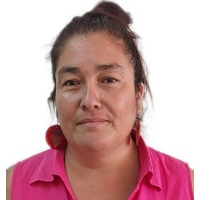
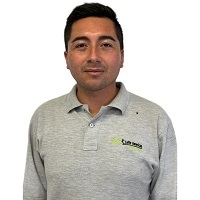
Cambios

diff --git a/noticias.html b/noticias.html
@@ -101,15 +101,19 @@
                 
             <div class="contenedor-servicios">  <!--Div se ocupa de contener elementos, para ser modificados en css-->
                 <div class="servicio celeste">
-                    <h4 ">DANIELA ANDREA TOBAR ROSAS.</h4>
+                    <h4 ">NELSO RODAS GRANADO.</h4>
+                    <br>
+                    <br>
                     <!-- <p>Documento dirigido a la Direccion Regional del trabajaro. </p> -->
-
-                    <img src="recursos/imagen_10.jpg" alt="">  
-
-                    <h4>PRESIDENTE</h4>
+        
+                    <img src="recursos/imagen_4.jpg" alt="">  
+        
+                    <h4>TITULAR</h4>
                         <!-- <img src="recursos/monitor.png" alt=""> -->
                         <!-- <a href=https://drive.google.com/file/d/1QniiumoWh47awwVE6pOnf-V2VWuBQfyI/view?usp=sharing target="_blank">Ver documento</a> -->
-                </div>  
+                </div>
+
+
                 <div class="servicio celeste">
                     <h4 ">EDUARDO GASTON ROJAS VILLACURA.</h4>
                     <!-- <p>Documento dirigido a la Direccion Regional del trabajaro. </p> -->
@@ -127,7 +131,7 @@
 
                     <img src="recursos/imagen_1.jpg" alt="">  
 
-                    <h4>TITULAR</h4>
+                    <h4>DELEGADO</h4>
                         <!-- <img src="recursos/monitor.png" alt=""> -->
                         <!-- <a href=https://drive.google.com/file/d/1QniiumoWh47awwVE6pOnf-V2VWuBQfyI/view?usp=sharing target="_blank">Ver documento</a> -->
                 </div>
@@ -144,10 +148,10 @@
     <div class="contenedor-servicios">  <!--Div se ocupa de contener elementos, para ser modificados en css-->
        
         <div class="servicio celeste">
-            <h4 ">NELSON ALEJANDRO RODAS GRANADO.</h4>
+            <h4 ">SEBASTIAN MAXIMILIANO CHAMORRO MANZANO .</h4>
             <!-- <p>Documento dirigido a la Direccion Regional del trabajaro. </p> -->
 
-            <img src="recursos/imagen_4.jpg" alt="">  
+            <img src="recursos/imagen_10.jpg" alt="">  
 
             <h4>SUPLENTE</h4>
                 <!-- <img src="recursos/monitor.png" alt=""> -->
@@ -195,7 +199,7 @@
 
         <img src="recursos/imagen_8.jpg" alt="">  
 
-        <h4>DELEGADO</h4>
+        <h4>PRESIDENTE</h4>
             <!-- <img src="recursos/monitor.png" alt=""> -->
             <!-- <a href=https://drive.google.com/file/d/1QniiumoWh47awwVE6pOnf-V2VWuBQfyI/view?usp=sharing target="_blank">Ver documento</a> -->
     </div>  
